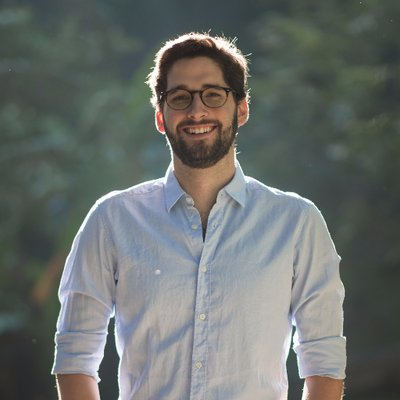
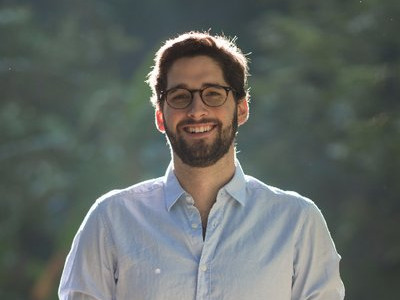
profiles changed to 4:3, split recent and post archive

diff --git a/public/publicaciones.html b/public/publicaciones.html
@@ -6,7 +6,7 @@
 	<link rel="stylesheet" href="https://maxcdn.bootstrapcdn.com/bootstrap/4.0.0/css/bootstrap.min.css" integrity="sha384-Gn5384xqQ1aoWXA+058RXPxPg6fy4IWvTNh0E263XmFcJlSAwiGgFAW/dAiS6JXm" crossorigin="anonymous">
 	<link rel="stylesheet" href="css/main.css">
 	<title>Esenciales | Wikipólitica Jalisco</title>
-	<link rel="stylesheet" href="css/esenciales.css">	<link rel="icon" href="images/favicon.png">
+	<link rel="stylesheet" href="css/publicaciones.css">	<link rel="icon" href="images/favicon.png">
 	<link rel="apple-touch-icon-precomposed" href="images/favicon_apple.png">
 </head>
 
@@ -24,7 +24,7 @@
 			<ul class="navbar-nav ml-auto my-2 my-lg-0">
 				<li class="nav-item "><a  class="nav-link" href="/">Inicio</a></li>
 				<li class="nav-item "><a  class="nav-link" href="nosotras.html">Nosotras</a></li>
-				<li class="nav-item active"><a class="nav-link" href="esenciales.html">Esenciales</a></li>
+				<li class="nav-item "><a class="nav-link" href="esenciales.html">Esenciales</a></li>
 				<li class="nav-item "><a class="nav-link" href="proyectos.html">Proyectos</a></li>
 				<li class="nav-item "><a class="nav-link" href="estructura.html">Estructura</a></li>
 				<li class="nav-item "><a class="nav-link" href="contacto.html">Contacto</a></li>
@@ -32,36 +32,17 @@
 		</div>
 	</nav>
 
-		<section id="wiki_data">
+		<section id="inicio">
 		<div class="container">
-			<h1>WIKI<br>DATOS</h1>
-			<br>
-			<div class="row">
-				<div class="col">
-					<h2>92</h2>
-					<p>Asambleistas Locales</p>
-				</div>
-				<div class="col">
-					<h2>690</h2>
-					<p>Integrantes en Jalisco</p>
-				</div>
-				<div class="col">
-					<h2>11</h2>
-					<p>Proyectos Emprendidos</p>
-				</div>
-				<div class="col">
-					<h2>12,603</h2>
-					<p>Tazas de Café</p>
-				</div>
-			</div>
+			<h1>PUBLICACIONES<br>RECIENTES</h1>
+			
+			<p>La pluralidad de ideas es una constante en Wikipolítica, varios de nuestros integrantes cuentan con columnas, las compartimos para tu lectura.</p>
+			
 		</div>
 	</section>
 
 	<section id="publicaciones">
 		<div class="container">
-			<h1>PUBLICACIONES<br>RECIENTES</h1>
-			
-			<p>La pluralidad de ideas es una constante en Wikipolítica, varios de nuestros integrantes cuentan con columnas, las compartimos para tu lectura.</p>
 			
 			<div class="row">
 									<div class="col-lg-4 col-md-6">
@@ -142,8 +123,33 @@
 							</div>
 						</div>
 					</div>
+									<div class="col-lg-4 col-md-6">
+						<div class="card">
+							<img class="card-img-top" src="images/profiles/carmona.jpg" alt="Damian Carmona">
+							<div class="card-body">
+								<h5 class="card-title">M&aacute;s all&aacute; de la ciudadan&iacute;a</h5>
+								<p class="card-text">El concepto de ciudadan&iacute;a y lo que puede representar ante ello Personas Comunes.</p>
 							</div>
-			<p class="right"><a href="publicaciones.html" class="btn hot_green">Ver todas las publicaciones...</a></p>
+							<div class="card-footer">
+								<div class="small" style="float:left"><strong>Damian Carmona</strong><br>2018-01-26</div>
+								<div class="right"><a target="_blank" href="https://medium.com/@WikipoliticaJal/m%C3%A1s-all%C3%A1-de-la-ciudadan%C3%ADa-d9dfe2a5ad32" class="btn hot_pink" title="¡Ay que ler!">Leer</a></div>
+							</div>
+						</div>
+					</div>
+									<div class="col-lg-4 col-md-6">
+						<div class="card">
+							<img class="card-img-top" src="http://okupo.mx/wp-content/uploads/2017/03/susana-678x381.png" alt="Susana Ochoa">
+							<div class="card-body">
+								<h5 class="card-title">Representar, &iquest;para qu&eacute;?</h5>
+								<p class="card-text">&iquest;Para qu&eacute; quieres representar, Susana? Me preguntaba una amiga cercana con la que platicaba la posibilidad levantar la mano representar la agenda de Wikipol&iacute;tica en el Congreso.</p>
+							</div>
+							<div class="card-footer">
+								<div class="small" style="float:left"><strong>Susana Ochoa</strong><br>2017-12-28</div>
+								<div class="right"><a target="_blank" href="http://okupo.mx/representar-para-que" class="btn hot_pink" title="¡Ay que ler!">Leer</a></div>
+							</div>
+						</div>
+					</div>
+							</div>
 		</div>
 	</section>
 		<div id="footer_container">

diff --git a/public/css/publicaciones.css b/public/css/publicaciones.css
@@ -92,27 +92,17 @@
 .btn.hot_yellow:hover {
   background-color: #bb8b04;
 }
-#wiki_data {
+#inicio {
   padding: 100px 0px 100px 0px;
   background-size: cover;
   background-attachment: fixed;
-  background-image: url('../images/backgrounds/asamblea_3.jpg');
-  color: white;
+  background-color: #ffcf48;
+  /*color:white;*/
 }
-#wiki_data h1 {
+#inicio h1 {
   font-weight: bolder;
   font-size: 70px;
   line-height: 0.9em;
-}
-#wiki_data h2 {
-  font-size: 3em;
-}
-#wiki_data p {
-  margin-top: .5em;
-  font-size: 1.5em;
-  line-height: 0.9em;
-  font-family: 'Raleway', sans-serif;
-  text-transform: uppercase;
 }
 #publicaciones {
   padding: 100px 0px 100px 0px;
@@ -124,7 +114,7 @@
   font-size: 70px;
   line-height: 0.9em;
 }
-.card {
-  margin-bottom: 20px;
+#publicaciones .card {
+  margin-bottom: 1em;
 }
-/*# sourceMappingURL=esenciales.css.map */
+/*# sourceMappingURL=publicaciones.css.map */

diff --git a/public/css/publicaciones.less b/public/css/publicaciones.less
@@ -1,0 +1,16 @@
+@import "variables.less";
+
+#inicio {
+	.section;
+	background-color: @hot_yellow;
+	/*color:white;*/
+	
+}
+
+#publicaciones {
+	.section;
+	
+	.card {
+		margin-bottom: 1em;
+	}
+}

diff --git a/public/css/esenciales.less b/public/css/esenciales.less
@@ -16,13 +16,8 @@
 	}
 }
 
+#publicaciones { .section; }
 
-#publicaciones {
-	.section;
-	/*img {
-		width:200px;
-	}*/
-	.card {
-		margin-bottom: 1em;
-	}
+.card {
+	margin-bottom: 20px;
 }

diff --git a/source/publicaciones.php b/source/publicaciones.php
@@ -3,46 +3,27 @@ include("microfw.php");
 include("db.php");
 $context = [
 	'_TITLE' =>'Esenciales | Wikipólitica Jalisco',
-	'_CSS' => ['css/esenciales.css'],
-	'_ACTIVE' => 'esenciales',
+	'_CSS' => ['css/publicaciones.css'],
+	'_ACTIVE' => 'publicaciones',
 ];
 
-$Query = $Db->prepare("SELECT * from posts ORDER BY date DESC LIMIT 6;");
-$Query->execute();
-$context['posts'] = $Query->fetchAll(PDO::FETCH_OBJ);
-render('main', $context, function($context){
+	$Query = $Db->prepare("SELECT * from posts ORDER BY date DESC;");
+	$Query->execute();
+	$context['posts'] = $Query->fetchAll(PDO::FETCH_OBJ);
+	render('main', $context, function($context){
 	extract($context);
 	?>
-	<section id="wiki_data">
+	<section id="inicio">
 		<div class="container">
-			<h1>WIKI<br>DATOS</h1>
-			<br>
-			<div class="row">
-				<div class="col">
-					<h2>92</h2>
-					<p>Asambleistas Locales</p>
-				</div>
-				<div class="col">
-					<h2>690</h2>
-					<p>Integrantes en Jalisco</p>
-				</div>
-				<div class="col">
-					<h2>11</h2>
-					<p>Proyectos Emprendidos</p>
-				</div>
-				<div class="col">
-					<h2>12,603</h2>
-					<p>Tazas de Café</p>
-				</div>
-			</div>
+			<h1>PUBLICACIONES<br>RECIENTES</h1>
+			
+			<p>La pluralidad de ideas es una constante en Wikipolítica, varios de nuestros integrantes cuentan con columnas, las compartimos para tu lectura.</p>
+			
 		</div>
 	</section>
 
 	<section id="publicaciones">
 		<div class="container">
-			<h1>PUBLICACIONES<br>RECIENTES</h1>
-			
-			<p>La pluralidad de ideas es una constante en Wikipolítica, varios de nuestros integrantes cuentan con columnas, las compartimos para tu lectura.</p>
 			
 			<div class="row">
 				<?php foreach($posts as $post): ?>
@@ -61,7 +42,6 @@ render('main', $context, function($context){
 					</div>
 				<?php endforeach; ?>
 			</div>
-			<p class="right"><a href="publicaciones.html" class="btn hot_green">Ver todas las publicaciones...</a></p>
 		</div>
 	</section>
 	<?php
